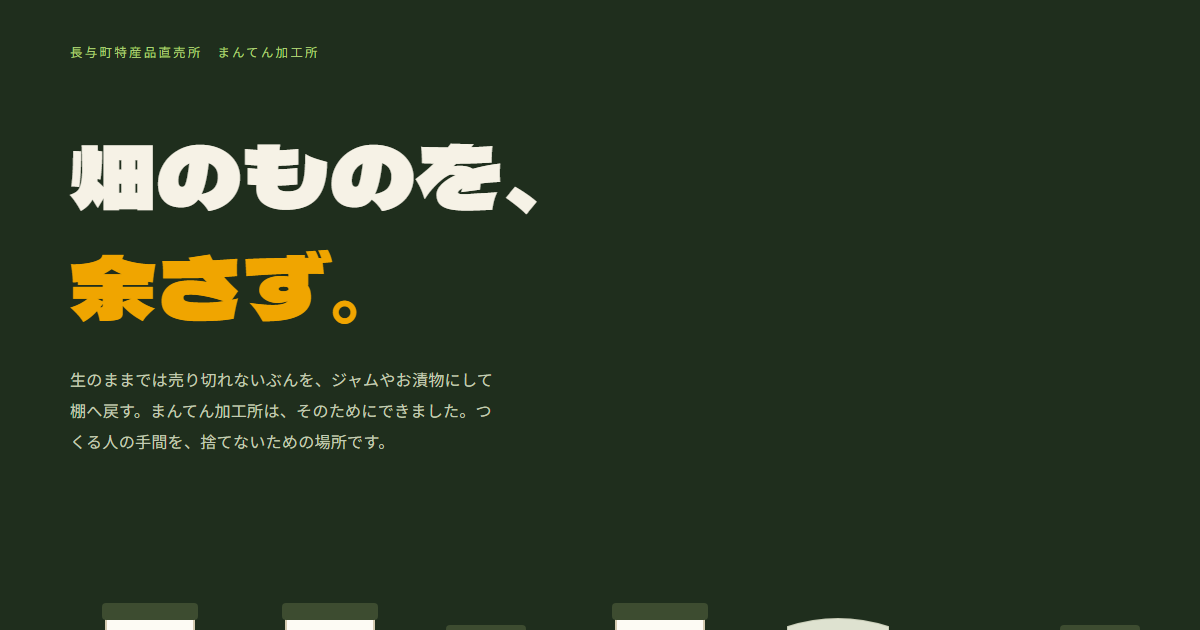
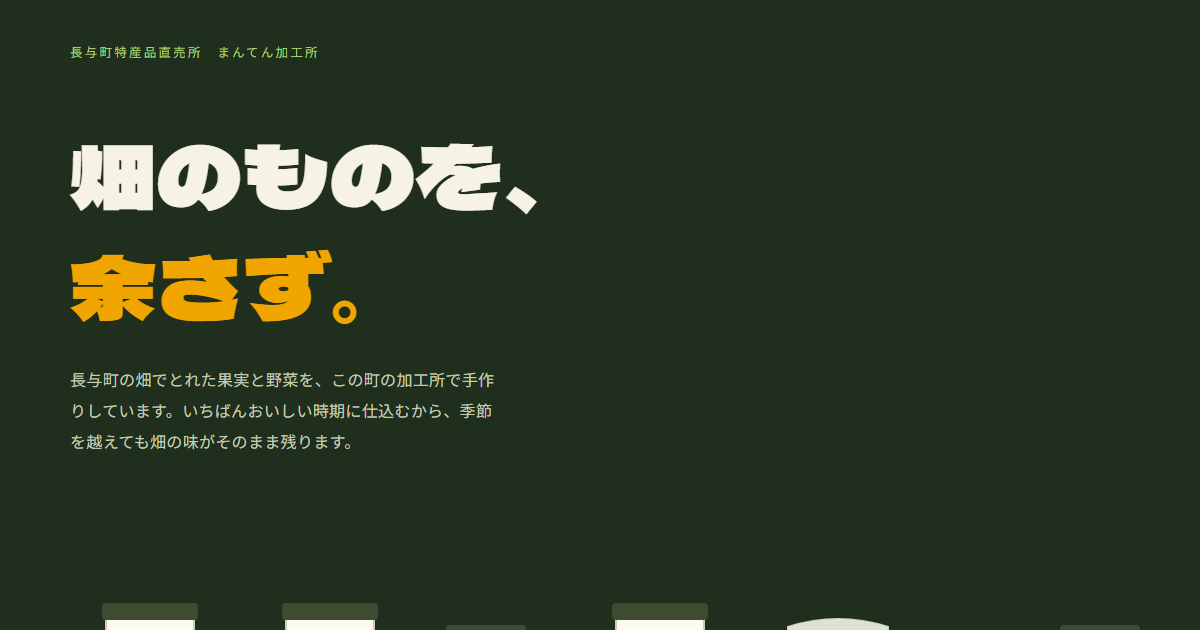
まんてん加工所：本文の事実誤りを修正、番号とタブ幅を調整
「生のままでは売り切れないぶんを加工する」と書いていたが、
これは裏が取れていない推測だった。新聞記事にあったのは再開計画に
加工所の新設が含まれていたことまでで、売れ残り対策とは書かれていない。
しかも「売れ残りで作ったジャム」と読まれて商品価値を下げる。

ジャムも漬物も本来は旬を保存する技術なので、
「いちばんおいしい時期に仕込むから季節を越えても味が残る」
という、事実であり前向きでもある書き方に変更。

- セクション番号（01〜05）を削除
- 季節タブを flex:1 で4等分（右側に空セルが残っていた）

Claude-Session: https://claude.ai/code/session_013LC4fnRnyA7jiigBnKy34d

Changed region(s): [[0.0617, 0.573, 0.4317, 0.6635], [0.0617, 0.6937, 0.3392, 0.7238]]

diff --git a/s/fe05c8ee49812bc5/index.html b/s/fe05c8ee49812bc5/index.html
@@ -84,9 +84,7 @@
     padding-left: 30px; padding-right: 30px; }
   @media (max-width: 760px) { .wrap { padding-left: 20px; padding-right: 20px; } }
 
-  /* 見出しは「番号＋短い語」。罫線付きラベルは使わない */
-  .lead-no { font-family: "Dela Gothic One", sans-serif; font-size: .82rem;
-    letter-spacing: .1em; color: var(--amber); display: block; margin-bottom: 10px; }
+  /* 見出しは大きな一言だけ。罫線付きラベルも番号も使わない */
   .h2 { font-family: "Dela Gothic One", sans-serif; font-weight: 400;
     font-size: clamp(1.7rem, 4.4vw, 2.6rem); line-height: 1.38; margin: 0 0 18px; }
   .note-s { font-size: .86rem; color: var(--ink-soft); max-width: 32em; margin: 0; }
@@ -110,10 +108,11 @@
     gap: 26px; flex-wrap: wrap; margin-bottom: 34px; }
   .season h2 { color: var(--cream); }
   .season .note-s { color: #9fb58c; }
+  /* 4つで幅を等分する。flex を伸ばさないと、右側に空のセルが残る */
   .tabs { display: flex; gap: 0; border: 2px solid var(--leaf); }
-  .tabs button { font-family: "Dela Gothic One", sans-serif; font-size: .96rem;
+  .tabs button { flex: 1 1 0; font-family: "Dela Gothic One", sans-serif; font-size: .96rem;
     background: transparent; color: var(--leaf); border: 0; cursor: pointer;
-    padding: 13px 26px; transition: background-color .18s ease, color .18s ease; }
+    padding: 13px 10px; transition: background-color .18s ease, color .18s ease; }
   .tabs button + button { border-left: 2px solid var(--leaf); }
   .tabs button[aria-selected="true"] { background-color: var(--leaf); color: var(--forest-2); }
   .tabs button:focus-visible { outline: 3px solid var(--amber); outline-offset: 3px; }
@@ -200,7 +199,7 @@
   <div class="wrap">
     <div class="hero-mark">長与町特産品直売所　まんてん加工所</div>
     <h1>畑のものを、<br><em>余さず。</em></h1>
-    <p>生のままでは売り切れないぶんを、ジャムやお漬物にして棚へ戻す。まんてん加工所は、そのためにできました。つくる人の手間を、捨てないための場所です。</p>
+    <p>長与町の畑でとれた果実と野菜を、この町の加工所で手作りしています。いちばんおいしい時期に仕込むから、季節を越えても畑の味がそのまま残ります。</p>
   </div>
   <div class="shelf-hero">
     <svg viewBox="0 0 1200 330" role="img" aria-label="直売所の棚に、みかんジャム・甘夏マーマレード・ブルーベリージャム・お漬物が並んでいる図">
@@ -311,7 +310,6 @@
   <div class="wrap">
     <div class="season-hd">
       <div>
-        <span class="lead-no">01</span>
         <h2 class="h2">同じ棚に、<br>同じものは並びません。</h2>
       </div>
       <p class="note-s">畑で採れたものだけを、採れたときに仕込みます。だから季節で、棚の顔が変わります。押して確かめてみてください。</p>
@@ -341,7 +339,6 @@
 
 <!-- ============ 商品 ============ -->
 <section class="wrap items">
-  <span class="lead-no">02</span>
   <h2 class="h2">つくっているもの</h2>
   <p class="note-s" style="margin-bottom:30px;">長与町の畑でとれた果実と野菜を、加工所でひとつずつ手作りしています。</p>
 
@@ -430,7 +427,6 @@
 <!-- ============ 料理教室 ============ -->
 <section class="class" id="class">
   <div class="wrap">
-    <span class="lead-no" style="color:#7a4b00;">03</span>
     <h2>予約はいりません。<br>お金もいりません。</h2>
     <div class="class-grid">
       <div>
@@ -452,12 +448,11 @@
 
 <!-- ============ 加工所のこと ============ -->
 <section class="wrap about" id="about">
-  <span class="lead-no" style="color:#c96a08;">04</span>
   <h2 class="h2">加工所のこと</h2>
   <div class="about-body">
     <p>まんてんは、長与町の人が作ったものを売る直売所です。野菜、果物、花、魚。町の中で採れたものが並びます。</p>
-    <p><strong>ただ、生のものには売り切れないぶんが出ます。</strong>畑で手をかけて育てても、その日に売れなければ行き場がなくなる。加工所は、そこをなんとかするために作られました。</p>
-    <p>ジャムにすれば日持ちします。漬物にすれば、また別のものになります。<strong>つくった人の手間を、捨てずに済みます。</strong></p>
+    <p><strong>果物も野菜も、いちばんおいしい時期は短いものです。</strong>みかんにも甘夏にも、ちょうどいい頃合いがあります。その一番のときに仕込んでおけば、季節を越えても同じ味を届けられます。</p>
+    <p>加工所は、そのためにあります。<strong>ジャムにすれば日持ちします。漬物にすれば、また別のおいしさになります。</strong>畑でとれたものを、いい時期のまま閉じこめておく場所です。</p>
     <p>料理教室をひらいているのも、同じ理由です。作り方を知ってもらえれば、家でも同じことができるようになります。</p>
   </div>
 </section>
@@ -465,7 +460,6 @@
 <!-- ============ 買いに行く ============ -->
 <section class="go" id="go">
   <div class="wrap">
-    <span class="lead-no" style="color:#c96a08;">05</span>
     <h2 class="h2">買いに行く</h2>
     <table>
       <tr>
